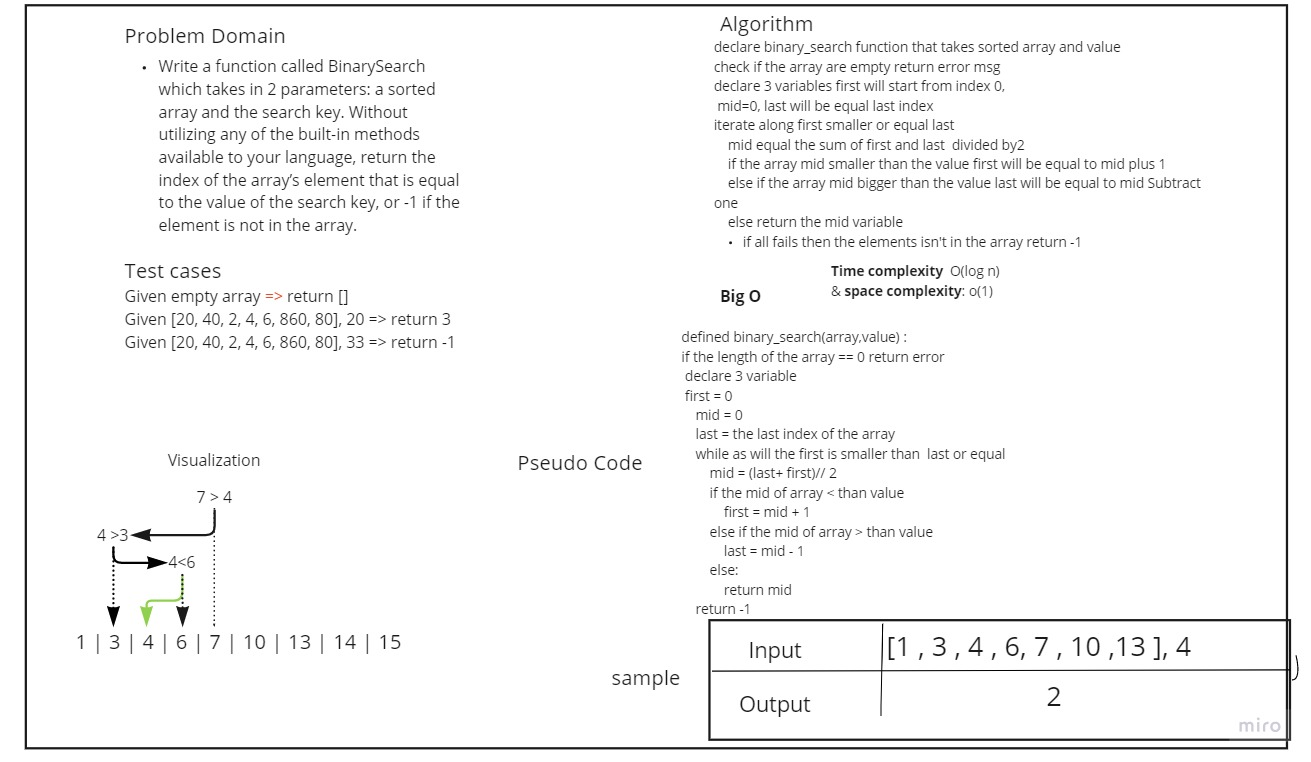
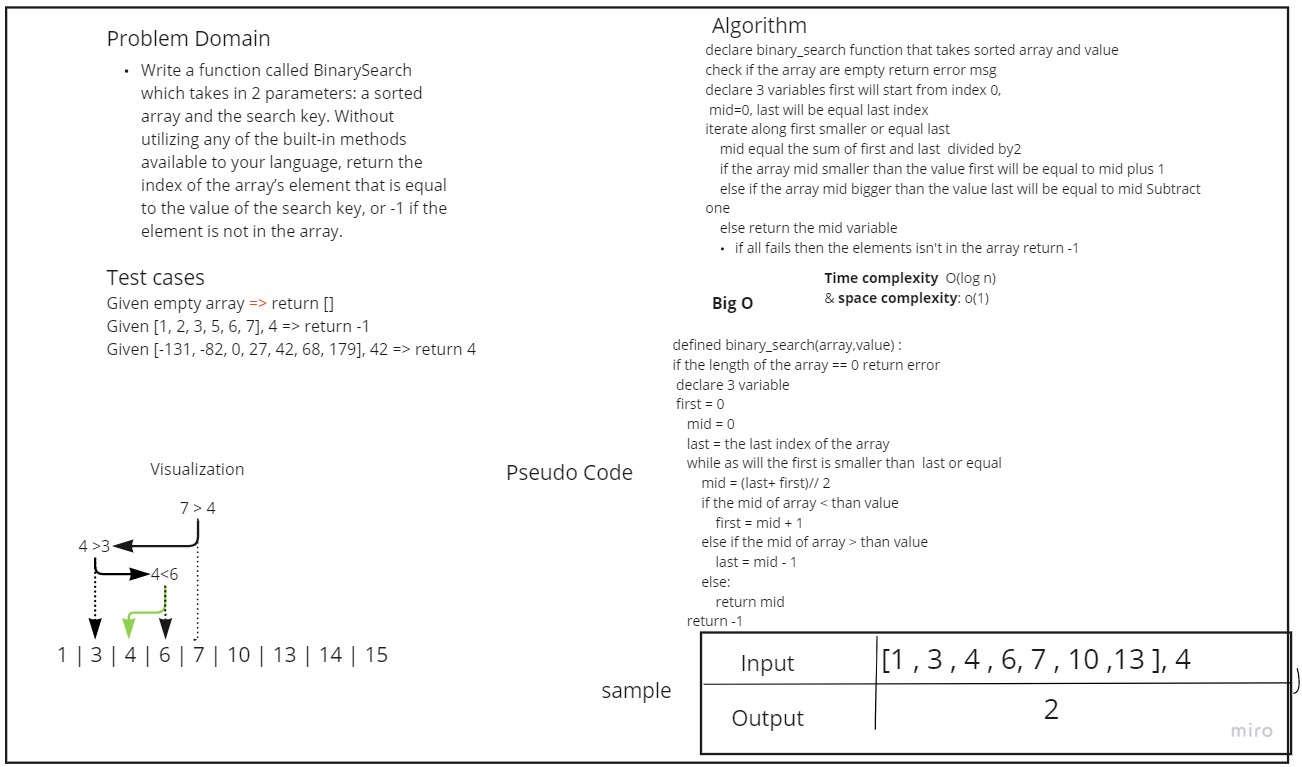
update whiteboard

diff --git a/array_binary_search/README.md b/array_binary_search/README.md
@@ -1,15 +1,15 @@
 # Binary Search of Sorted Array
+
 Write a function called BinarySearch which takes in 2 parameters: a sorted array and the search key. Without utilizing any of the built-in methods available to your language, return the index of the array’s element that is equal to the value of the search key, or -1 if the element is not in the array.
 
 ## Whiteboard Process
+
 ![binary_search](binary_array.jpg)
 
 ## Approach & Efficiency
+
     looping all overe array but with ignore the half of the elements
     why : time complexity for itteration is better than recursion
 big O :
 Time complexity  O(log n)
 Space complexity: o(1)
-
-
-1 
